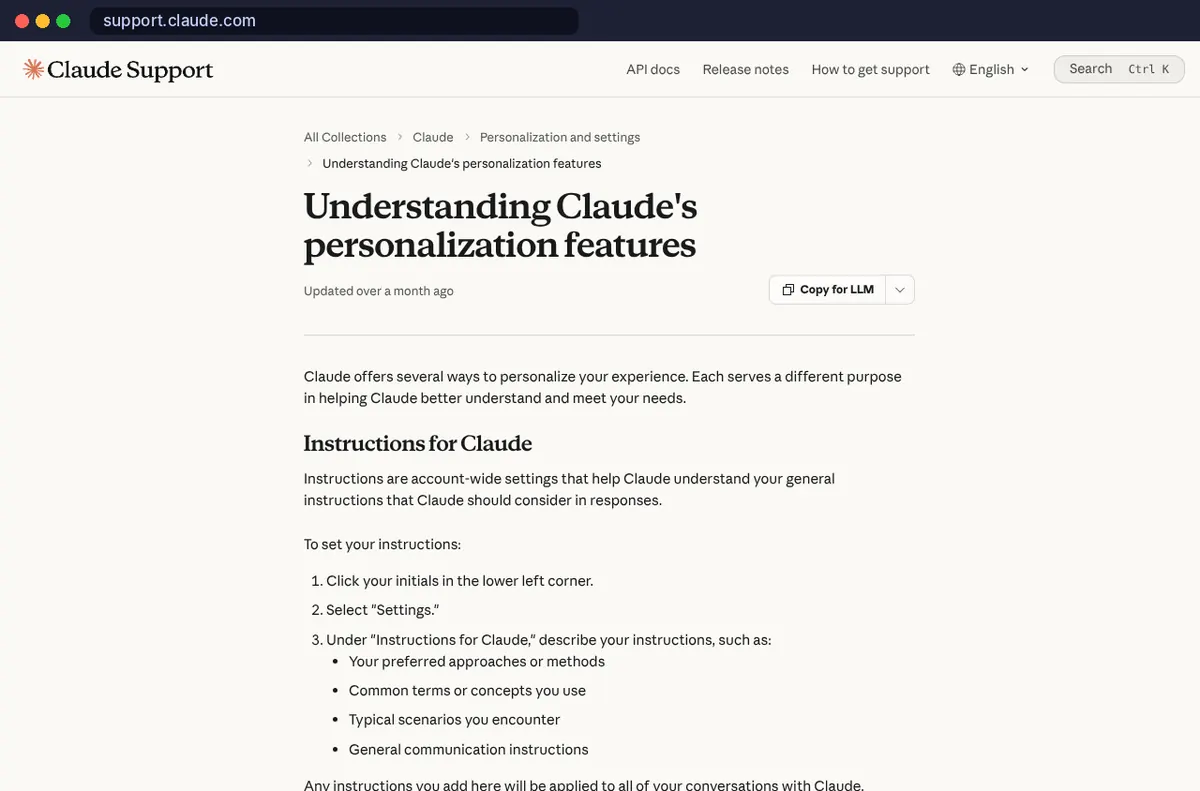
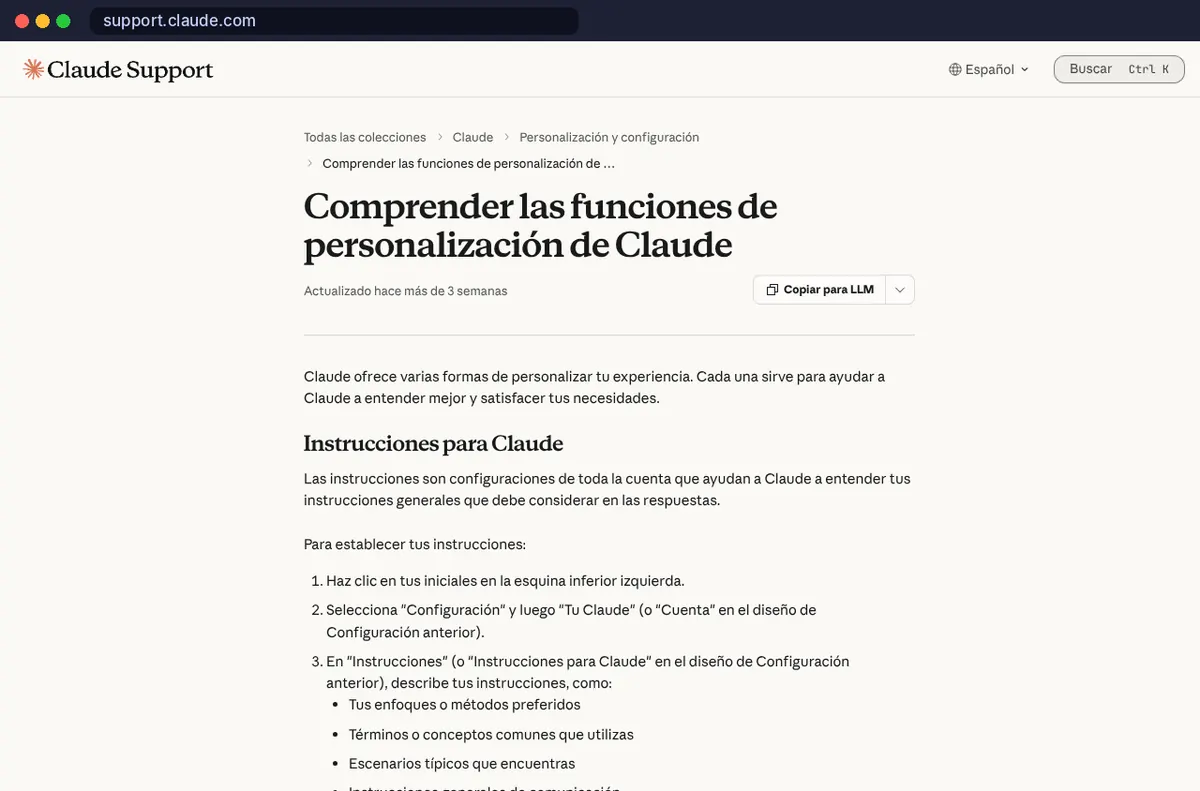
Emails con Claude: arreglos del juez de fuentes; plan SEO al día
Ejemplo «robótico» marcado como redactado, sin «vosotros» en los ejemplos,
menús en español, preguntas sobre el plan gratis y otras IA ajustadas a
las fuentes, captura y esquema con la ruta nueva (Tu Claude), sin relleno.
Plan SEO: Claude Code hecho, ideas de Cowork y Sheets.

Claude-Session: https://claude.ai/code/session_012nLXgF6ZWv7bRNGHePCL5Q

diff --git a/docs/plan-seo.md b/docs/plan-seo.md
@@ -36,14 +36,17 @@ la propuesta del 18-10-2026 (Search Console, planificador de Google Ads y 28 bú
 - **Pilar:** `/blog/claude-ia-que-es-gratis/`, que se convertirá en «Claude en español: guía completa (gratis, planes y
   cómo usarlo)». Su dirección no cambia.
 - **Apoyos que ya hay:** ✔ `/blog/claude-skills-1000-gratis/` (la página más fuerte de la web; su dirección no se toca;
-  revisada el 02-11-2026) · ✔ `/blog/claude-emails-sonar-humanos/` (revisado el 19-10-2026) · ✔ `/blog/alternativas-fable-5/` ·
-  ✔ `/herramientas/chatgpt-vs-claude/` · ✔ `/blog/prompts-para-claude/` (02-11-2026)
+  revisada el 02-11-2026) · ✔ `/blog/claude-emails-sonar-humanos/` (revisado el 19-10-2026 y el 16-11-2026: conector de Gmail) ·
+  ✔ `/blog/alternativas-fable-5/` (revisado el 16-11-2026) · ✔ `/herramientas/chatgpt-vs-claude/` ·
+  ✔ `/blog/prompts-para-claude/` (02-11-2026) · ✔ `/blog/claude-code-sin-saber-programar/` (16-11-2026)
 - **Cola de apoyos nuevos** (en este orden; antes de escribir, comprobar en la web oficial que la función existe hoy y
   cómo se llama):
   - [x] ✔ (19-10-2026) Pilar: rehacer `/blog/claude-ia-que-es-gratis/` como guía completa («Claude en español: guía completa, gratis y planes»)
   - [x] ✔ (02-11-2026) Prompts para Claude con ejemplos → `/blog/prompts-para-claude/` («Prompts para Claude: ejemplos y
     cómo darle instrucciones»; seis prompts, instrucciones de cuenta, Proyecto y Skill). Mejora de la semana: Claude Skills.
-  - [ ] Claude Code sin saber programar: primeros pasos
+  - [x] ✔ (16-11-2026) Claude Code sin saber programar → `/blog/claude-code-sin-saber-programar/` («Claude Code sin saber
+    programar: primeros pasos»; app de escritorio sin terminal, plan, primer proyecto, modos de permiso, Cowork y la
+    terminal). Mejora de la semana: emails con Claude (conector de Gmail, tú/usted/vos, preguntas frecuentes).
   - [ ] Límites del plan gratis de Claude y cómo aprovecharlos
   - [ ] Proyectos de Claude: qué son y para qué sirven
   - [ ] Claude vs Gemini: cuál elegir según para qué
@@ -52,7 +55,11 @@ la propuesta del 18-10-2026 (Search Console, planificador de Google Ads y 28 bú
   - [ ] Idea (19-10-2026): Memoria de Claude y chats de incógnito: qué recuerda y cómo borrarlo (el centro de ayuda lo explica con detalle; hoy es solo un apartado del pilar)
   - [ ] Idea (02-11-2026): Claude Design, Slides y Docs: qué son y qué se puede hacer gratis (la página de precios los
     incluye en el plan Free; el autocompletado de España y México sugiere «prompts para claude design»). Antes, comprobar
-    que hay ayuda oficial con pasos.
+    que hay ayuda oficial con pasos. (13-11-2026: Sheets y Whiteboards ya tienen ayuda oficial con pasos, pero no están
+    en Free.)
+  - [ ] Idea (16-11-2026): Claude Cowork: qué es, cuánto cuesta y para qué sirve sin programar. El autocompletado de
+    España y México sugiere «claude cowork es gratis», «precio», «descargar», «para qué sirve», «en español» y «claude
+    cowork vs claude code». Hoy es un apartado de la guía de Claude Code; el centro de ayuda tiene una guía con pasos.
 
 ## Grupo B · IA en tu ordenador (local y privada) — CRECER
 - **Pilar:** ✔ `/blog/ia-local-sin-internet/` «IA local en español: cómo usar IA en tu PC sin internet» (qué programa
